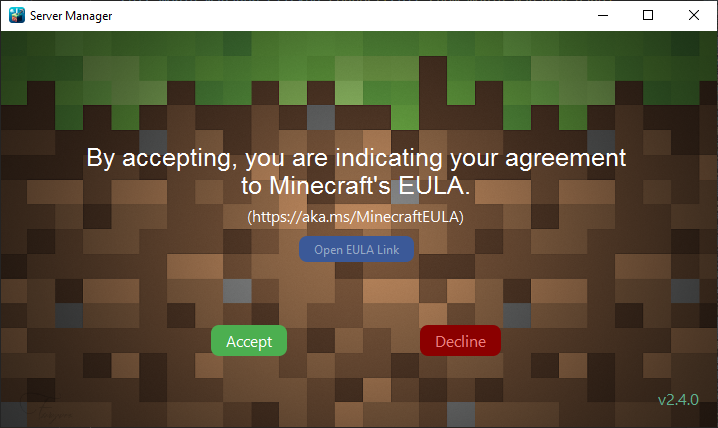
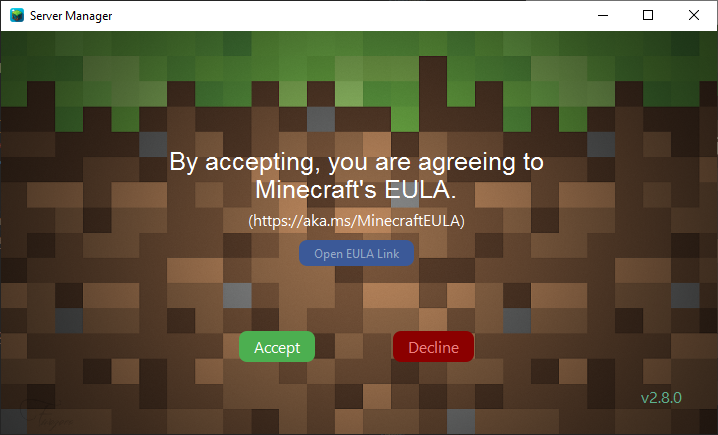
updated README and made small fixes

diff --git a/manager_host.py b/manager_host.py
@@ -1661,7 +1661,7 @@ class ServerManagerApp(QMainWindow):
             return error
         else:
             try:
-                self.log_queue.put(f"Preparing for {'fabric ' if fabric else ''} version {version}.")
+                self.log_queue.put(f"Preparing for {'Fabric ' if fabric else ''}version {version}.")
                 if seed is not None:
                     if seed != "":
                         self.log_queue.put(f"Generating {level_type} world with seed '{seed}'...")
@@ -2109,7 +2109,7 @@ class ServerManagerApp(QMainWindow):
             self.open_folder_button.setEnabled(True)
             
             if not self.check_eula():
-                self.show_error_page("By accepting, you are indicating your agreement<br> to Minecraft's EULA.",
+                self.show_error_page("By accepting, you are agreeing to<br>Minecraft's EULA.",
                                     "(https://aka.ms/MinecraftEULA)", eula=True)
             else:
                 self.start_manager_server()

diff --git a/manager.py b/manager.py
@@ -10,7 +10,7 @@ from PyQt6.QtWidgets import QApplication, QMainWindow, QVBoxLayout, QHBoxLayout,
 from PyQt6.QtGui import QFont, QIcon, QPixmap, QPainter, QPaintEvent, QDesktopServices
 from PyQt6.QtCore import Qt, QRect, QThread, pyqtSignal, QObject, QUrl
 
-TESTING = True
+TESTING = False
 VERSION = "v2.8.0"
 
 if TESTING:
@@ -662,6 +662,8 @@ class ServerManagerApp(QMainWindow):
     
     def set_status(self, info):
         status, version, world = info
+        if version and version.startswith("vanilla "):
+            version = version.removeprefix("vanilla ")
         if status == "online":
             self.status = "online"
             self.server_status_label.hide()
